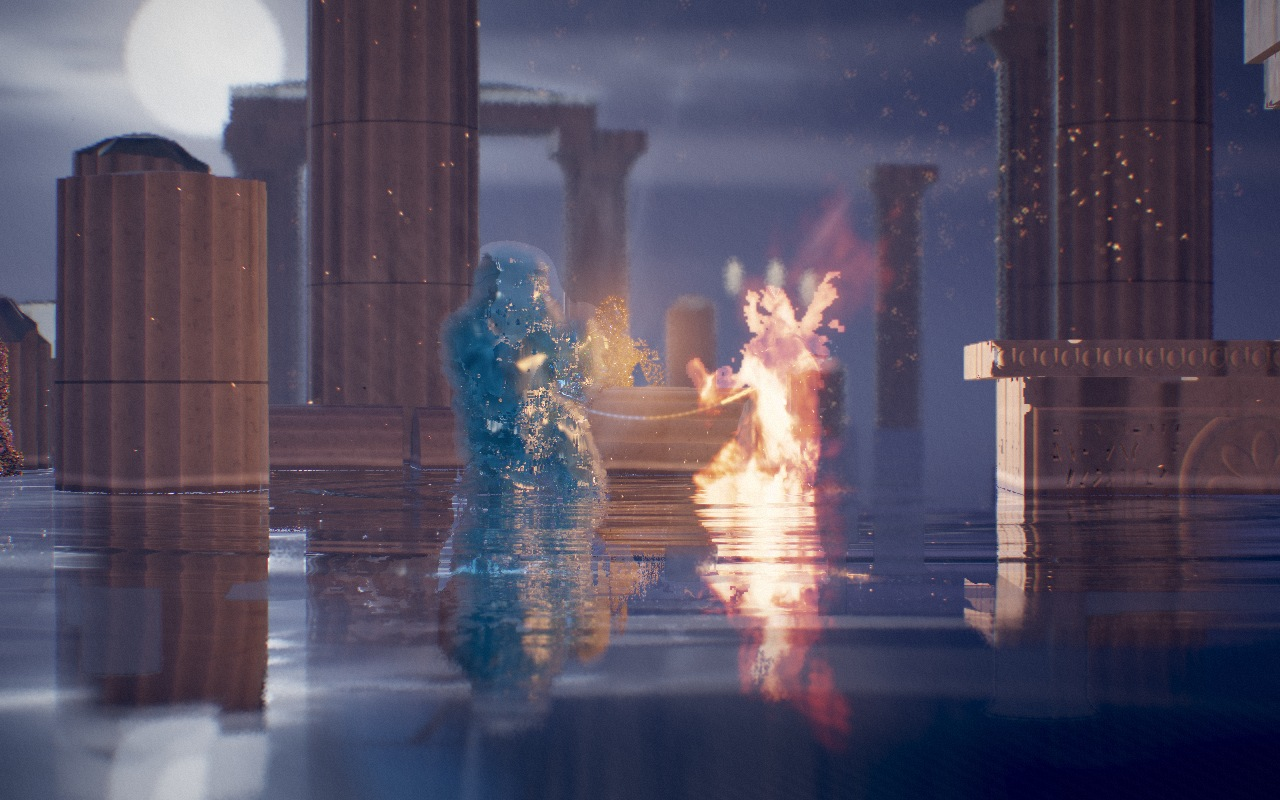
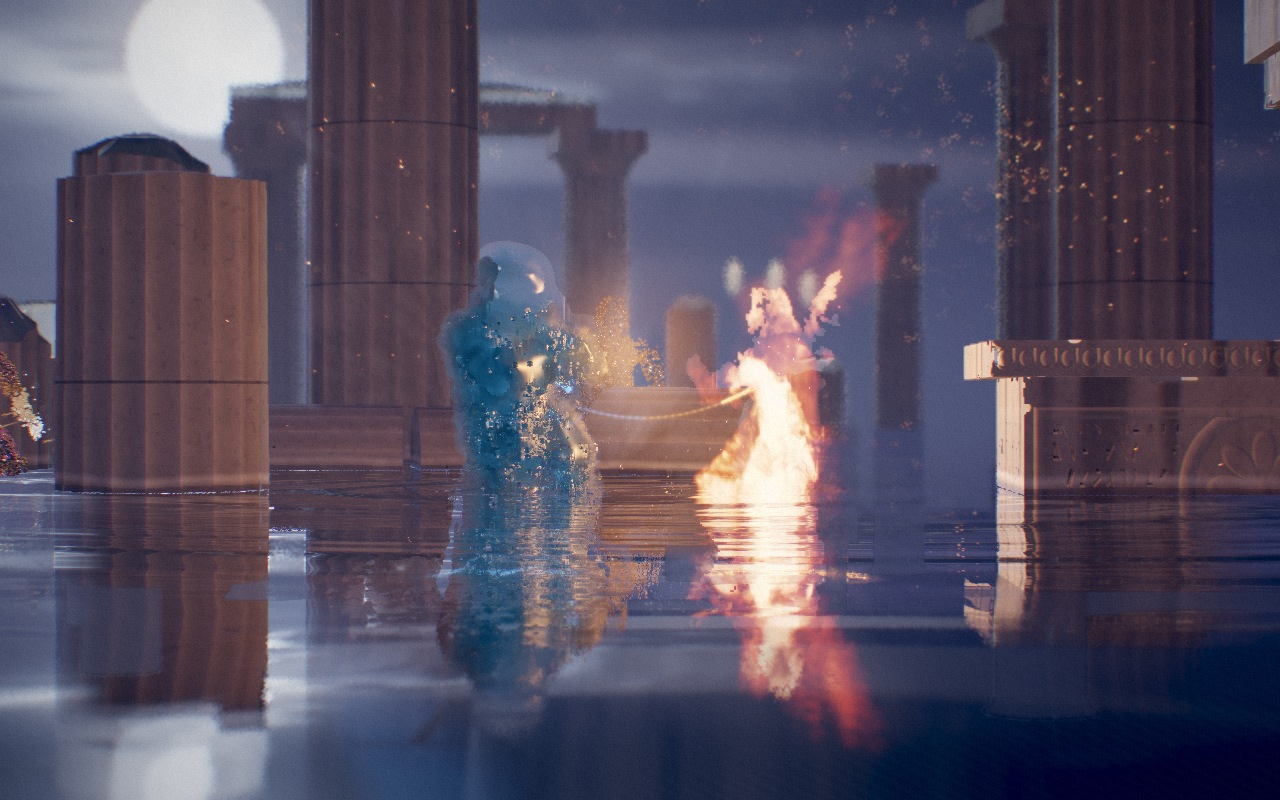
Report 9-stage: the temple's lock, the stage dim per world, the forge walked through its gate and back, the geode and forge orbits; the final takes on the merged build

diff --git a/docs/reports/9-stage.md b/docs/reports/9-stage.md
@@ -1,0 +1,171 @@
+# Wave 7: the locked camera, the temple and the forge, the stage dim
+
+Branch `worktree-agent-a13a8c7ae2a1674e7`, items 7, 11 and 12 of 8-integration.md's "What is left", and the geode and
+forge orbits Report 8 did not re-shoot. Master (684ae8e: the near fade, the gates' depth of field, the fusion's hold)
+was merged in before the final captures; every sheet named below was shot on the merged build unless it says otherwise.
+
+**Measured:** `npm run typecheck` and `npm test` after the merge (exit 0: limits, bindings, 9 TS test files, audio,
+10,037 gate checks, the net tests; before the merge the net's real-time smoothness test failed once under the shared
+machine's load, rms 0.079, and passed alone). Captures on the RTX 5090 through headless Chrome against this worktree's
+dev server on `[::1]:5461`, one take at a time under the shared render lock (`scripts/critic-cap.mjs` with
+`scripts/steps/stage-9.json`, written by `stage-9-gen.mjs`; the dim sheets by `scripts/steps/stage-9-dim.mjs`). Each
+take logs what it measures into the capture's problem list (the lock's widest lens, nearest eye, largest turn; the
+walk's lowest feet and nearest disc; the orbit's frames inside a solid). Diagnostic runs that log every 0.2 s (not
+committed: `shots/diag/`) found the causes below. I looked at every sheet and still cited. **Not measured:** a person
+playing, a gamepad, a phone, timings (all the changes are CPU-side and a handful of tests a frame), sound.
+
+## 1. The temple's lock
+
+### The dark, low swing: the lock's clearance measured from among the stage's own ledges
+
+`CameraRig.lockPose` stood the eye as far back as the framing wants, but no further than `clearance(c, far)` allowed,
+**measured from the look point `c`**, which is on the stage plane among the stage's own solids (the altar, the broken
+pillars, the lintel's columns). With the pair beside the altar's end, a dodge turn of +0.3 rad put the altar's 40 cm
+margin across that segment at its very start: clear 0, so the eye stood at the 2 m floor and the lens widened to 90°
+(a reading of the temple's real solids for a pair at x = -2: every turn 9.1 to 10 m at 19° except +0.3 and +0.4: 2.0 m
+at 90°). The dodge's score counted only sight lines, so it could choose that turn, and the eye's distance and lens eased
+at 6/s: one or two frames of a wide, low, dark shot at 5 fps. That is the integration's row 3.
+
+Changed in `src/engine/camera.ts` (the lock only):
+- the clearance is measured from 1.6 m in front of the stage along the boom (`LOCK_STAGE_DEPTH`): the stage's own ledges
+  never pull the lock in; something further out still does;
+- the dodge's score adds 3 × how much shorter than the framing wants a turn would have to stand, so a turn that needs a
+  wider lens loses to a crossed sight line;
+- bounded speeds: the lock's distance comes in no faster than 5 m/s (the free boom's own limit), its lens widens no
+  faster than 30°/s, its dodge turns no faster than 0.35 rad/s (the plain ease moved the eye 4 to 6 m sideways in half a
+  second).
+
+A check in `scripts/check-portals.mjs`: a pair walking the whole court (x -5.2 to 5.2) for 25 s against the temple's own
+solids. On the old code: widest lens 45.4°, nearest eye 5.2 m, in at 37.6 m/s, turning at 0.41 rad/s (all four fail).
+Now: 19.0° (the stage's 19), 8.4 m, 0.30 m/s, 0.350 rad/s.
+
+In the 30 s take (`9-stage-partner-temple-lock-sheet.jpg`, the integration's script exactly, the lock logged every
+frame): nearest eye 9.08 m, largest turn 0.10 rad, 7 of 149 frames with a solid still across a sight line (hips, knees,
+chest or head) after the turn, no frame wide, low or dark. The log's widest lens (31.3°) and lowest eye (0.63 m) are
+frame 0, where the take's own log runs before the lock has eased in from the free camera (a separate run logging every
+0.2 s: 25° at 0 s, 20° at 0.2 s, 19° from 0.4 s on).
+
+### The stubs and the drift: the seats started on the pillars, and the pillars stood in the pair's floor
+
+- **The seat-0 dancer on the stub:** nothing in the script or the ledges made it jump. The temple's stage **spawned
+  both seats on the broken pillars' tops** (`spawns: [[-4.2, 1.9], [4.3, 1.9]]`), the only world that did. A scripted
+  dancer who only dances stays there; the partner came down and across to it. Now the seats start on the flagstones just
+  off the altar's ends, `[-2.0, 0]` and `[2.05, 0]`.
+- **The drift left:** measured in the logged roots: seat 0 (scripted, never moving on purpose) stays where it starts
+  and the partner circles to the far side of it, about 1.5 m beyond. From the stub at -4.2 that put the pair at -5.5 to
+  -3; the frame's middle averaged -2.65 m. With the seats at ±2.85 (my first try, `shots/stage9/partner-temple-lock-run1`)
+  the partner still went to -4.35 next to the pillar. From -2.0: seat 0 between -2.8 and -1.3, the partner between -3.5
+  and +2.1, the frame's middle about -1.8. The pair is still left of the court's middle in this take because the scripted
+  dancer starts there and never walks; the stage itself no longer pulls them there. (The altar is the court's middle, so
+  a still pair can't stand centred without one on it.)
+- **The stubs large in the foreground:** they are the stage's own two broken pillars, at the dancers' depth (half of
+  each stands in front of the plane), lit by the fire beside them. The pillars moved out to the stage's ends, x -5.0 and
+  5.05 (from -4.2 and 4.3): 3.3 m of open floor between each and the altar (`temple/layout.ts`; ledges, tops, shadows and
+  solids follow from the one description). In the take they stand at the frame's edge, a sixth of its width, when the
+  partner circles to the far side (`9-stage-partner-temple-lock-24.jpg`), and are out of frame otherwise. The near fade
+  (merged) leaves them, rightly: they are beside the pair, not across it.
+
+Before: `8-partner-temple-lock-sheet.jpg`. After: `9-stage-partner-temple-lock-sheet.jpg` and `-8`, `-16`, `-24.jpg`.
+
+## 2. The stage dim per world
+
+`9-stage-dim-sheet.jpg`: each world's jogo against the partner, locked, at 9 s, the play frozen and the same frame shot
+at `stageDim` 0, 0.35, 0.55 and 0.75 (rows: geode, redwoods, Pool, temple, forge). `9-stage-dim-chosen-sheet.jpg`: 0,
+the old default 0.55, and each world's choice. The dim is subtle at any value (it darkens only what is several metres
+beyond the stage, by at most 45 % × the value, and softens it): it is a separation, not a look.
+
+| world | was | now | why |
+|---|---|---|---|
+| geode | 0.55 | 0.65 | the gem dome's stars and bokeh are busy right behind the pair; a little more quiets them, the blades and shelves at the stage's depth untouched |
+| redwoods | 0.55 | 0.75 | the bright fog is what the water dancer's pale head and shoulders fade into (8-integration's open item 4); darkening it is the one change here that helps that contrast. The trunks behind go a little darker, still warm |
+| Pool | 0.55 | 0.3 | the backdrop is already near black; what there is, the moon and its path on the water, is the point. At 0.55 the horizon band and the glitter lose most of what they have |
+| temple | 0.35 | 0.5 | the moonlit cloud round the moon is the brightest thing behind a water dancer; at 0.5 it sits back. The moon stays white even at 0.75 (it is far past white), so the temple agent's reason for 0.35 holds at 0.5 |
+| forge | 0.55 | 0.3 | the frame is mostly dark; the red-lit rock hanging behind the stage is all that gives it depth |
+
+The values live in each world's `stageDim` (one field and its comment each in `geode.ts`, `redwoods.ts`, `pool.ts`,
+`forge.ts`, `temple.ts`). `bend.post` (one word in main.ts) lets a take set the post chain's eased value so a row is
+one frame.
+
+## 3. The forge: through its gate, on over the lobe, and back
+
+The take (`9-stage-gate-forge-sheet.jpg`, stills `-3`, `-6p6`, `-9`, `-11`, `-14.jpg`): a played fire dancer placed 4 m
+before the hub's forge gate walks in with the steady stick, on **4.5 m past the disc** over the lobe toward the anvil,
+stops, the camera turns to look back from beyond them, and they walk back through to the hub. Feet never below the
+floor (lowest 0.00), the camera behind the player on both sides, the eye within 0.35 m of a disc only for the two
+frames it passes through it. Three faults found on the way, all fixed:
+
+1. **The flash on the way back was the player falling through the hub.** Each played dancer's ground was the *main
+   view's* world (`dancer/play.ts`: `ctx.world().groundAt`), and the main view changes world only when the camera's eye
+   has come through the gate, about a second after its player. Walking back, the player stood in the hub for that second
+   on the **forge's** floor read at hub coordinates: no column there, so they fell (the log: feet -0.8, -2.6 m, then
+   re-formed at the spawn), the camera behind them pressed down on the disc's rim as the look point sank: the ring large
+   in frame, the flash, the integration's row 3. Every other world's floor is flat there, which is why only the forge
+   showed it. Now `PlayCtx.worldOf(dancer)` (main.ts passes the portals' `worldOf`): each dancer walks on its own
+   world's ground and falls out at its own world's `fallY`.
+2. **Holes in the forge's floor.** `Forge.groundAt` counted a point as on a column within 0.9 of its corner radius: a
+   circle inside each hexagon, so the corners between cells were holes (10 points on the gate's line, every 2 cm, read
+   as holes). It is now the hexagon itself (`forge/layout.ts floorAt`, flat sides ±x as the cells are laid), with a
+   centimetre of margin. A test walks the way in and a body's width either side of it, every 2 cm: floor at all 693
+   points (`floor.test.ts`).
+3. **The way in ran under the left float's hanging edge.** The gate faced 0.17 rad left of the stage's middle; its
+   straight way in passed 0.9 m from the left float's lowest column (0.63 m off the floor), and the follow camera behind
+   the walker, and in front of them on the way back, came in to its 0.9 m floor for it (a whole frame of flame). The gate
+   now faces the stage's middle exactly (`normal [0.852, 0, 0.523]`, same place); the way in is clear of every column
+   at the camera's 0.5 m sweep, and the lobe's floor covers it (both floor tests run on the new line).
+
+Weak point left: when the camera turns to look back (6.8 s) from beyond the player toward the crown, the crown's lowest
+cells hold the boom at about 1.6 m for half a second as the player starts back, so two frames are a big body
+(`-sheet` row 4, frames 9 and 10). The rig is right not to stand inside the crown; the near fade does not fade it
+(not within 0.6 m of the eye, not in front of the framed dancer). A take that turns the camera less would not see it.
+
+## 4. The geode and forge orbits (the critic's 8 m orbits, re-shot)
+
+`9-stage-w-geode-sheet.jpg`, `9-stage-w-forge-sheet.jpg`, stills `-0`, `-3`, `-6`, `-9.jpg`; each frame's eye tested
+against the world's solids by the take itself.
+
+- **Geode:** 47 frames, none inside a solid, none within 0.2 m of one; shortest boom 3.1 m (row 1, frame 7: the boom
+  comes in between a gate's disc and the shelves, a big water body; the cameras agent saw the same frame).
+- **Forge:** 47 frames, none inside or within 0.2 m. **Before a fix here, the shortest boom was 0.9 m** for 1.5 s of
+  the orbit (the camera inside the pair: a full frame of water, then of fire). Cause: the pair stand on the crown (the
+  take's `place` puts them on its top, 3.1 m), and `World.clear` (`clearOf`, a 40 cm margin round every solid, added
+  for the forge at the integration) ignored only the solid its start is inside; the crown's next columns, whose margin
+  the look point also stood in a hand's breadth over the top, read as 0 clear for any boom not rising steeply. Now
+  `clearOf` shrinks its margin for a start nearer a solid than the margin, as the camera's own sweep already did (a test
+  in `temple/solids.test.ts`). Shortest boom now 8.76 m; the orbit is the clean wide circle it was meant to be.
+
+## Files outside my area (each a line or two at a seam)
+
+- `src/main.ts`: `bend.post` beside `gates, device, fade`; `worldOf: (d) => worldOf(gates.worldOf(d))` into playDemo's
+  context (the merge's one conflict was this `Object.assign` line: both kept).
+- `src/dancer/play.ts`: `PlayCtx.worldOf`, and each seat's terrain reads its dancer's world (8 lines).
+- `src/worlds/solids.ts` (`clearOf`'s margin) and `geode.ts`, `redwoods.ts`, `pool.ts` (one `stageDim` field each).
+- Mine: `src/engine/camera.ts` (the lock), `src/worlds/temple/` (layout, spawns, dim, tests), `src/worlds/forge/`
+  (floor, gate, dim, tests), `scripts/check-portals.mjs` (the temple lock check), `docs/extending/camera.md` (the lock),
+  `scripts/steps/stage-9-gen.mjs`, `stage-9.json`, `stage-9-dim.mjs`, this report, `docs/reports/media/9-stage-*.jpg`.
+
+## For the integrator and the films agent
+
+- **Film 2's places:** the temple's seats no longer start on the pillars (seat 0 started on the left one: the
+  integration's film 2 fault "the fire dancer stands on a column stub"), and the pillars stand at x -5.0 and 5.05, not
+  -4.2 and 4.3. A timeline that walks seat 0 to -1.2 now walks it from -2.0 on the floor. Nothing in `films/*.json` names
+  the pillars' x; the lead shot's moon and gate are untouched.
+- **The forge's gate faces 0.17 rad further right.** Anything framed on the forge's disc from a fixed yaw (none in the
+  films now) would see it turned.
+- **Every played dancer now stands on its own world's ground.** If something else drives a dancer through a gate
+  without the portals knowing (`gates.worldOf` falls back to the main view's world), it behaves as before.
+
+## Proposed for AGENTS.md (not edited)
+
+- In "The contracts", after `CameraRig.framePad`: "the lock's clearance is measured from 1.6 m in front of the stage (a
+  stage's own ledges never pull it in); its distance, lens and dodge are rate-bounded (5 m/s, 30°/s, 0.35 rad/s)".
+- In the map's `dancer/` line: "a played dancer walks on its own world's ground (`PlayCtx.worldOf`, the portals')".
+- `World.stageDim` per world: geode 0.65, redwoods 0.75, Pool 0.3, temple 0.5, forge 0.3 (9-stage.md).
+
+## Not done
+
+- The scripted temple take still has the pair left of the court's middle, because the scripted dancer starts left and
+  never walks; a played or directed seat 0 would not. Not changed in the partner (src/ai is not mine).
+- The forge's look-back frame (above). The geode's one close frame by the gate (unchanged since the cameras agent).
+- The stage dim judged on one frame per world at 9 s, at 1280×800, by eye; not on a phone, not in motion.
+- The temple's other stages' worth of geometry (the lintel, the altar) was left where it is: the altar in the middle is
+  why a pair standing still can't be centred.
